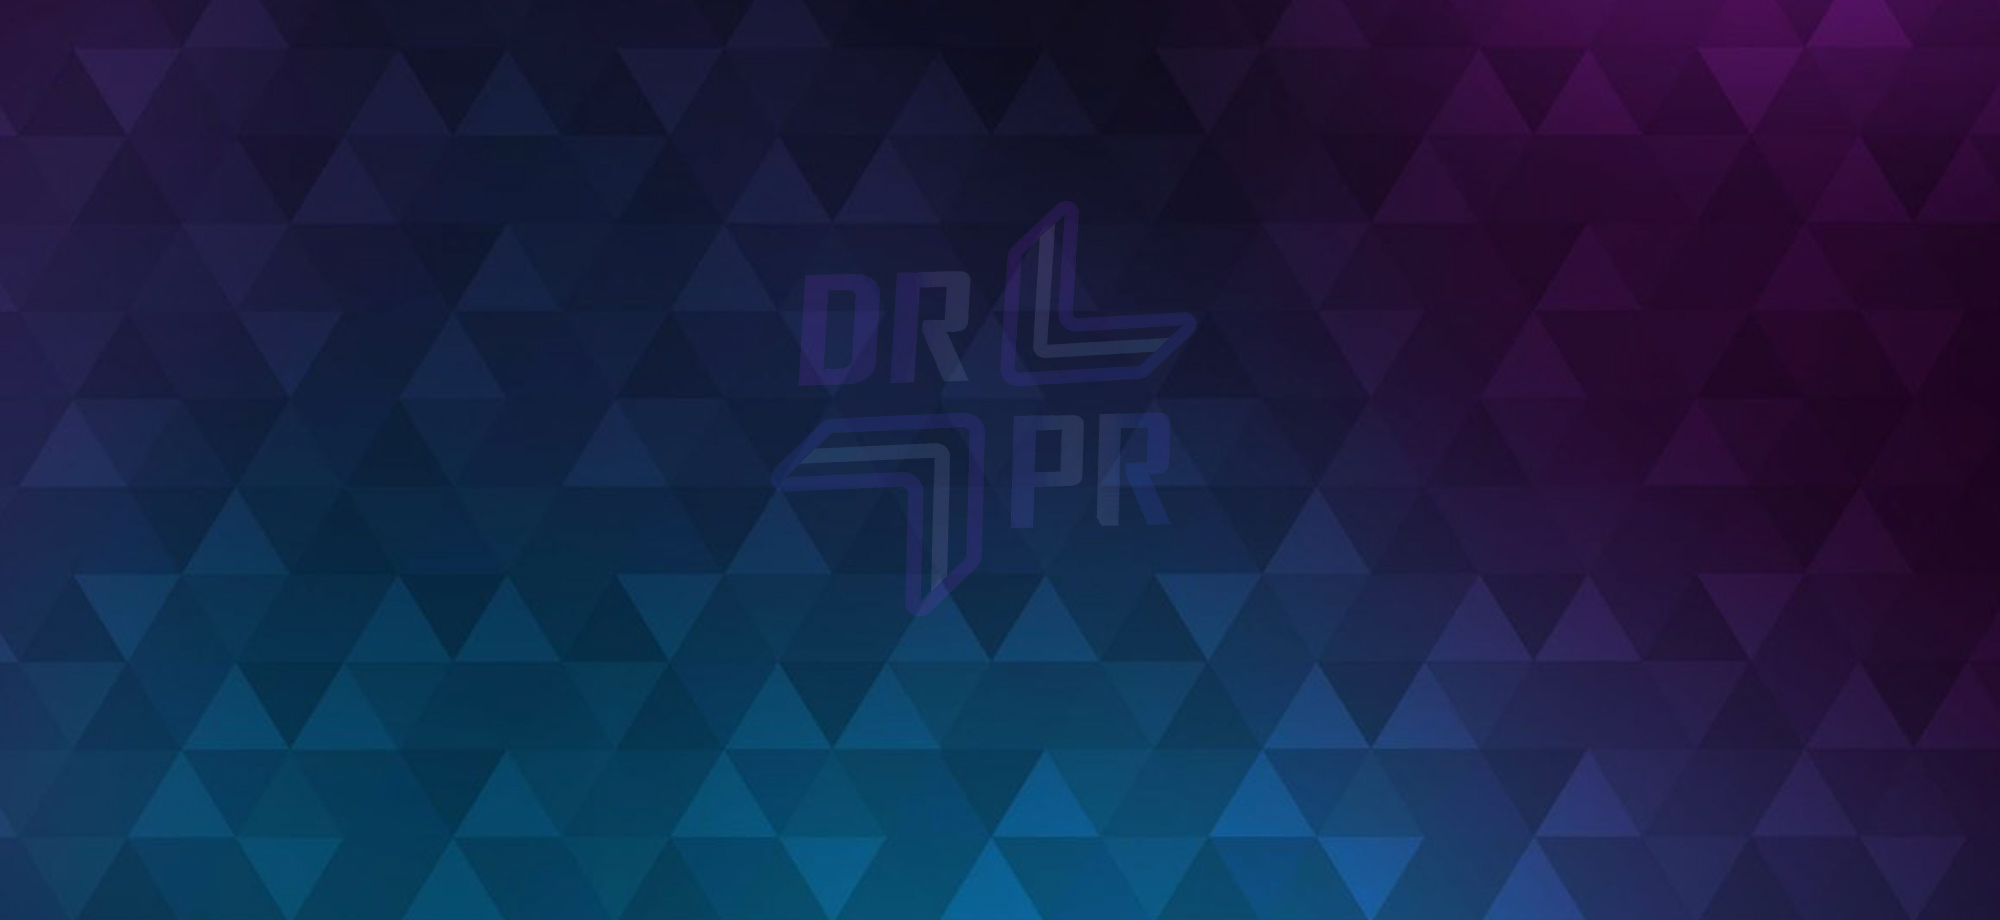
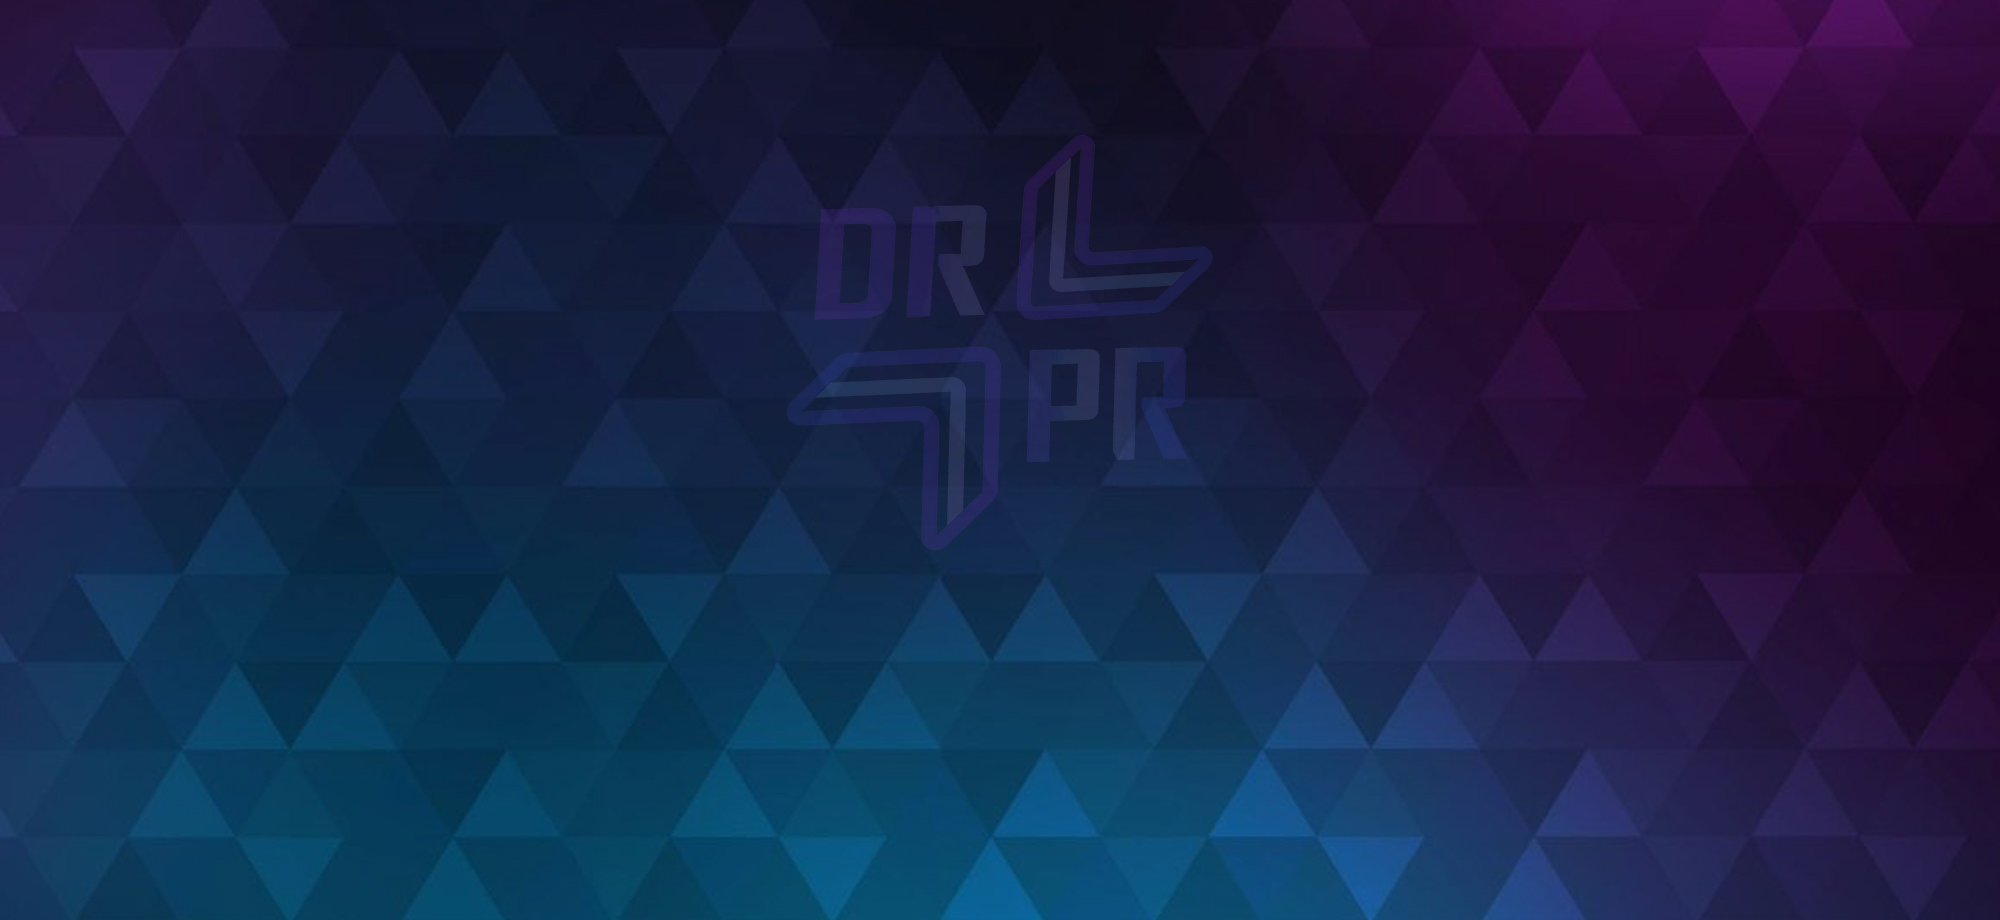
as

Changed region(s): [[0.372, 0.1522, 0.62, 0.6087], [0.465, 0.6087, 0.496, 0.6391]]

diff --git a/mysite/static/css/main.css b/mysite/static/css/main.css
@@ -1,5 +1,5 @@
 /* Header */
-#head { background:#181015 url( ../images/bg_header.jpg) no-repeat; background-size: cover; min-height:520px; text-align: center; padding-top:570px; color:white; font-family:"Open sans", Helvetica, Arial; font-weight:300; }
+#head { background:#181015 url( ../images/bg_header.jpg) no-repeat; background-size: cover; min-height:520px; text-align: center; padding-top:370px; color:white; font-family:"Open sans", Helvetica, Arial; font-weight:300; }
 #head.secondary { height:100px; min-height: 100px; padding-top:0px; }
 	#head .lead { font-family:"Open sans", Helvetica, Arial; font-size:44px; margin-bottom:6px; color:white; line-height:1.15em; } 
 	#head .tagline { color:rgba(255,255,255,0.75); margin-bottom:25px; }

diff --git a/mainApp/templates/progressus/index.html b/mainApp/templates/progressus/index.html
@@ -34,8 +34,9 @@
             {% endblock %}
         </div>
     </div>
-    <div class="icon faa-float animated">
-        <i class="fa fa-angle-double-down"></i>
+    <br><br><br><br><br><br>
+    <div class="icon faa-float animated toNextPage">
+        <img src="{% static 'images/cnh.png' %} "/>
     </div>
 </header>
 <!-- /Header -->

diff --git a/mainApp/templates/mainApp/index.html b/mainApp/templates/mainApp/index.html
@@ -24,15 +24,6 @@
 {% endblock %}
 
 {% block footer_script %}
-<script>
-	$(document).ready(function(){
-    $('#btnTest').click(function(){
-        alert( "Респект, бро" );
-    });
-    $('#btnTest2').click(function(){
-        alert( "Давай пятюню" );
-    });
-});
-</script>
+
 {% endblock %}
 

diff --git a/mainApp/templates/progressus/base.html b/mainApp/templates/progressus/base.html
@@ -37,6 +37,10 @@
 
     {% block head_script %} {% endblock %}
     <style>
+
+    .toNextPage{
+        paddingTop = 100px;
+    }
     {% block style_block %} {% endblock %}
 
     </style>
